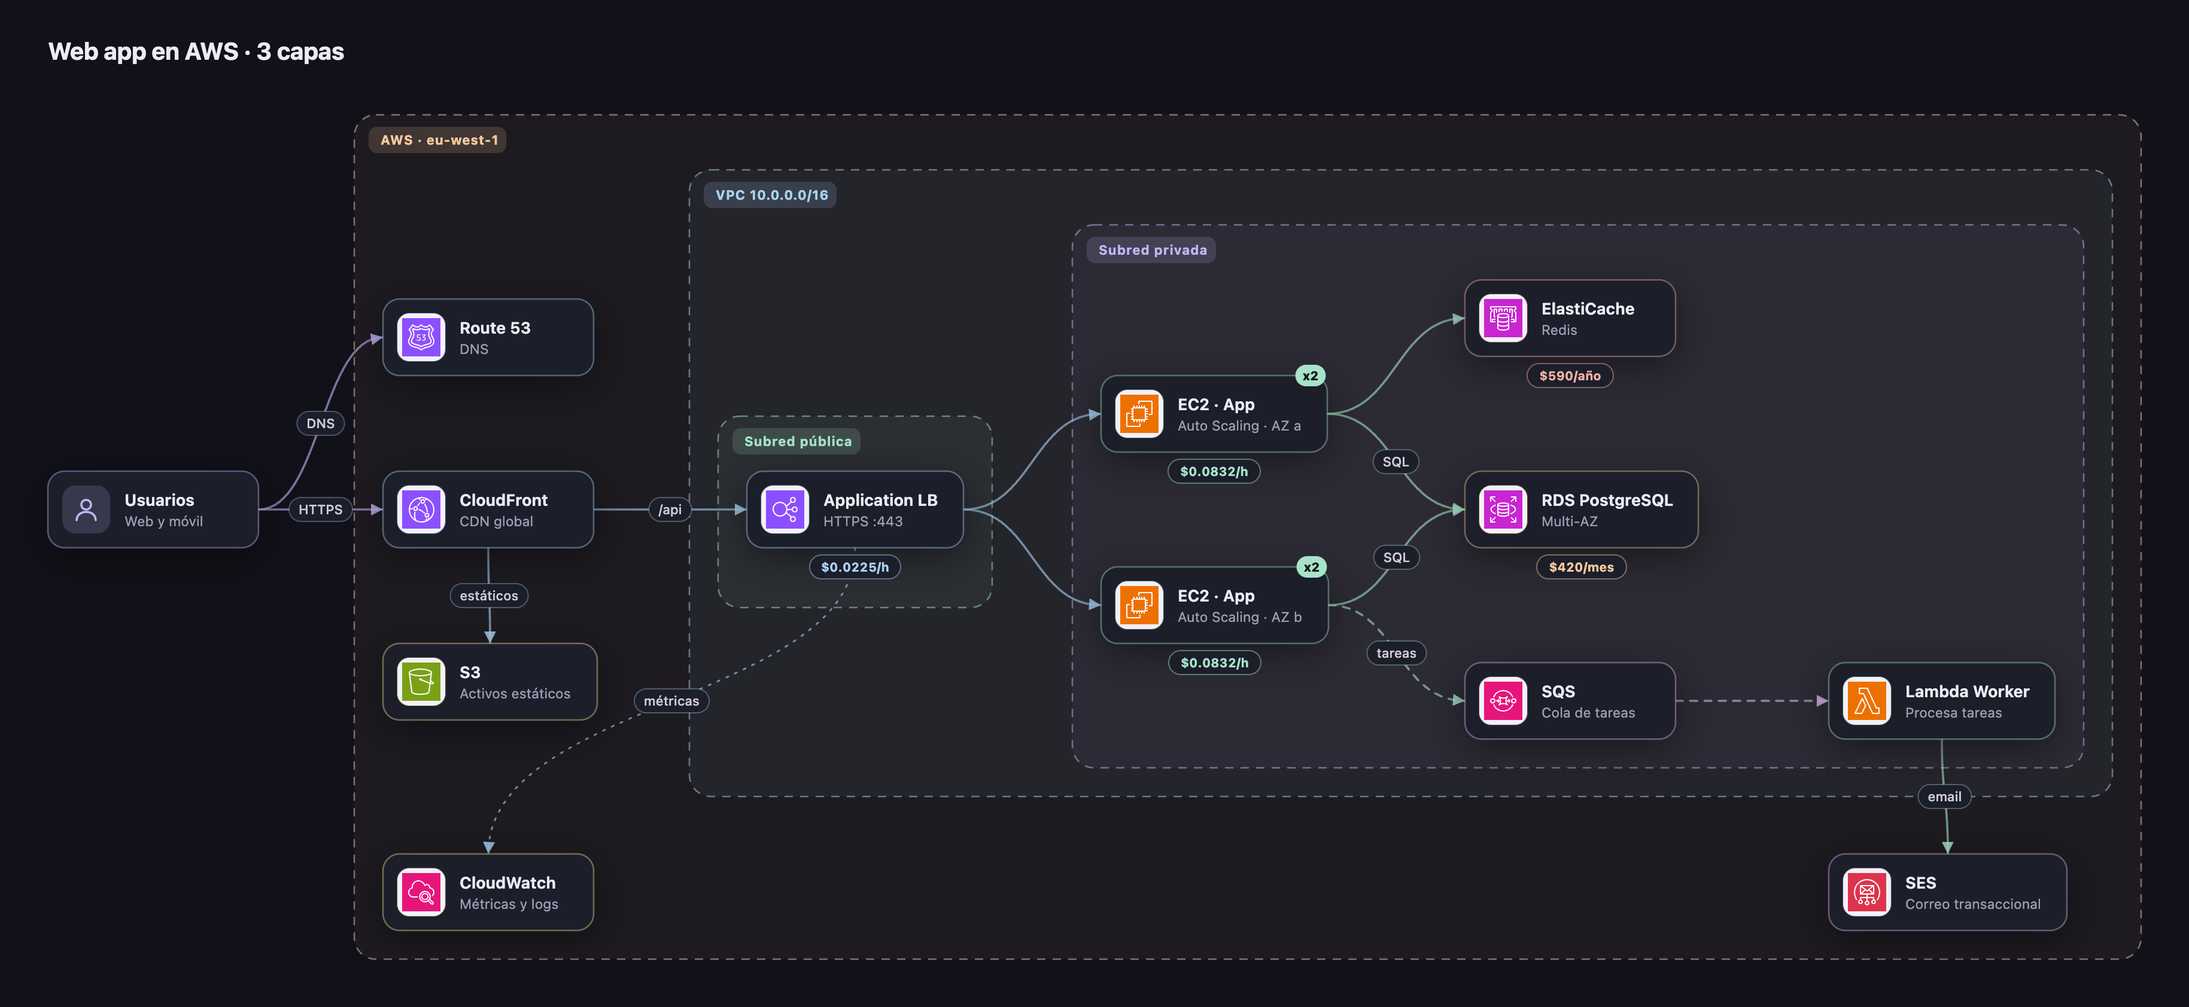
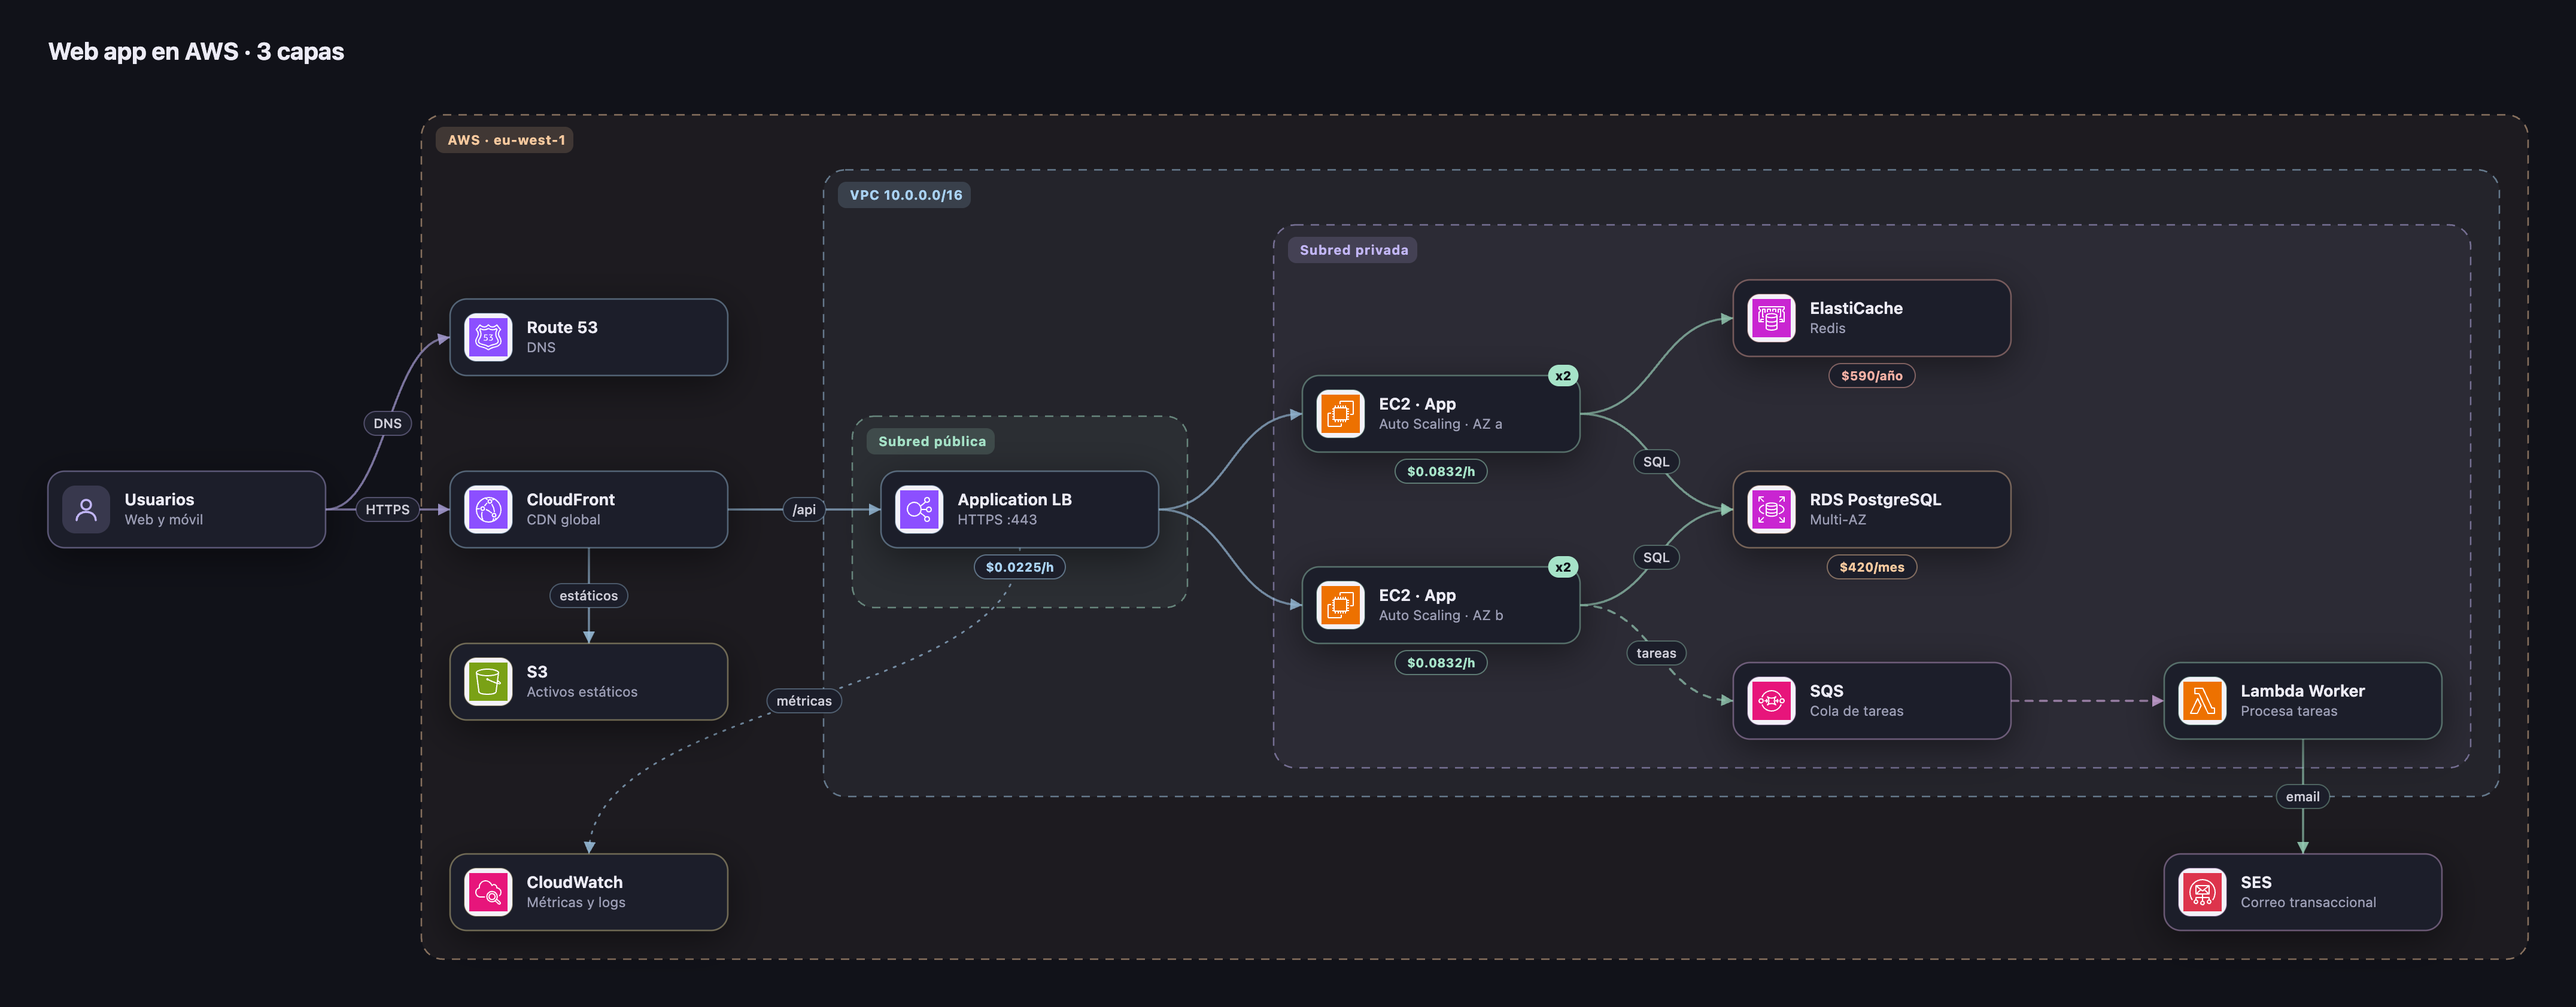
Refresh README images and widen template columns
Nodes are now 232 px wide instead of 176 px, so the template columns
had only ~48 px between boxes and edge labels got squeezed. Shift each
column of the AWS and GKE templates right by 56 px per column, which
restores the original spacing (the serverless template uses auto
layout and needs no change).

Regenerate docs/diagram-dark.png and docs/diagram-light.png with the
new same-size boxes.

diff --git a/examples.js b/examples.js
@@ -17,18 +17,18 @@ window.DIAGRAMON_EXAMPLES = [
       ],
       nodes: [
         { id: 'users',  label: 'Usuarios',       type: 'user',     sub: 'Web y móvil',          x: 0,    y: 200, desc: 'Clientes que acceden por navegador o app.' },
-        { id: 'dns',    label: 'Route 53',       type: 'dns', icon: 'aws/route53',      sub: 'DNS',                  group: 'aws', x: 280, y: 56,  desc: 'Resuelve el dominio hacia CloudFront.' },
-        { id: 'cdn',    label: 'CloudFront',     type: 'cdn', icon: 'aws/cloudfront',      sub: 'CDN global',           group: 'aws', x: 280, y: 200, desc: 'Sirve contenido estático y enruta /api al balanceador.' },
-        { id: 's3',     label: 'S3',             type: 'storage', icon: 'aws/s3',  sub: 'Activos estáticos',    group: 'aws', x: 280, y: 344, desc: 'HTML, JS, CSS e imágenes.' },
-        { id: 'cw',     label: 'CloudWatch',     type: 'monitor', icon: 'aws/cloudwatch',  sub: 'Métricas y logs',      group: 'aws', x: 280, y: 520, desc: 'Alarmas, paneles y registros.' },
-        { id: 'alb',    label: 'Application LB', type: 'lb', icon: 'aws/elb',       sub: 'HTTPS :443',           group: 'pub', x: 584, y: 200, desc: 'Reparte el tráfico entre zonas de disponibilidad.' },
-        { id: 'app1',   label: 'EC2 · App',      type: 'compute', icon: 'aws/ec2',  sub: 'Auto Scaling · AZ a',  group: 'priv', badge: 'x2', x: 880, y: 120, desc: 'Servidores de aplicación en la zona a.' },
-        { id: 'app2',   label: 'EC2 · App',      type: 'compute', icon: 'aws/ec2',  sub: 'Auto Scaling · AZ b',  group: 'priv', badge: 'x2', x: 880, y: 280, desc: 'Servidores de aplicación en la zona b.' },
-        { id: 'cache',  label: 'ElastiCache',    type: 'cache', icon: 'aws/elasticache',    sub: 'Redis',                group: 'priv', x: 1184, y: 40,  desc: 'Sesiones y lecturas frecuentes.' },
-        { id: 'rds',    label: 'RDS PostgreSQL', type: 'db', icon: 'aws/rds',       sub: 'Multi-AZ',             group: 'priv', x: 1184, y: 200, desc: 'Base de datos principal con réplica en espera.' },
-        { id: 'sqs',    label: 'SQS',            type: 'queue', icon: 'aws/sqs',    sub: 'Cola de tareas',       group: 'priv', x: 1184, y: 360, desc: 'Desacopla el trabajo pesado.' },
-        { id: 'worker', label: 'Lambda Worker',  type: 'function', icon: 'aws/lambda', sub: 'Procesa tareas',       group: 'priv', x: 1488, y: 360, desc: 'Consume la cola y envía correos.' },
-        { id: 'ses',    label: 'SES',            type: 'email', icon: 'aws/ses',    sub: 'Correo transaccional', group: 'aws', x: 1488, y: 520, desc: 'Confirmaciones y avisos por email.' }
+        { id: 'dns',    label: 'Route 53',       type: 'dns', icon: 'aws/route53',      sub: 'DNS',                  group: 'aws', x: 336, y: 56,  desc: 'Resuelve el dominio hacia CloudFront.' },
+        { id: 'cdn',    label: 'CloudFront',     type: 'cdn', icon: 'aws/cloudfront',      sub: 'CDN global',           group: 'aws', x: 336, y: 200, desc: 'Sirve contenido estático y enruta /api al balanceador.' },
+        { id: 's3',     label: 'S3',             type: 'storage', icon: 'aws/s3',  sub: 'Activos estáticos',    group: 'aws', x: 336, y: 344, desc: 'HTML, JS, CSS e imágenes.' },
+        { id: 'cw',     label: 'CloudWatch',     type: 'monitor', icon: 'aws/cloudwatch',  sub: 'Métricas y logs',      group: 'aws', x: 336, y: 520, desc: 'Alarmas, paneles y registros.' },
+        { id: 'alb',    label: 'Application LB', type: 'lb', icon: 'aws/elb',       sub: 'HTTPS :443',           group: 'pub', x: 696, y: 200, desc: 'Reparte el tráfico entre zonas de disponibilidad.' },
+        { id: 'app1',   label: 'EC2 · App',      type: 'compute', icon: 'aws/ec2',  sub: 'Auto Scaling · AZ a',  group: 'priv', badge: 'x2', x: 1048, y: 120, desc: 'Servidores de aplicación en la zona a.' },
+        { id: 'app2',   label: 'EC2 · App',      type: 'compute', icon: 'aws/ec2',  sub: 'Auto Scaling · AZ b',  group: 'priv', badge: 'x2', x: 1048, y: 280, desc: 'Servidores de aplicación en la zona b.' },
+        { id: 'cache',  label: 'ElastiCache',    type: 'cache', icon: 'aws/elasticache',    sub: 'Redis',                group: 'priv', x: 1408, y: 40,  desc: 'Sesiones y lecturas frecuentes.' },
+        { id: 'rds',    label: 'RDS PostgreSQL', type: 'db', icon: 'aws/rds',       sub: 'Multi-AZ',             group: 'priv', x: 1408, y: 200, desc: 'Base de datos principal con réplica en espera.' },
+        { id: 'sqs',    label: 'SQS',            type: 'queue', icon: 'aws/sqs',    sub: 'Cola de tareas',       group: 'priv', x: 1408, y: 360, desc: 'Desacopla el trabajo pesado.' },
+        { id: 'worker', label: 'Lambda Worker',  type: 'function', icon: 'aws/lambda', sub: 'Procesa tareas',       group: 'priv', x: 1768, y: 360, desc: 'Consume la cola y envía correos.' },
+        { id: 'ses',    label: 'SES',            type: 'email', icon: 'aws/ses',    sub: 'Correo transaccional', group: 'aws', x: 1768, y: 520, desc: 'Confirmaciones y avisos por email.' }
       ],
       edges: [
         { from: 'users', to: 'dns', label: 'DNS' },
@@ -96,17 +96,17 @@ window.DIAGRAMON_EXAMPLES = [
       ],
       nodes: [
         { id: 'client',   label: 'Clientes',        type: 'web',       sub: 'Navegador',        x: 0,    y: 200 },
-        { id: 'armor',    label: 'Cloud Armor',     type: 'firewall', icon: 'gcp/cloudarmor',  sub: 'WAF + LB global',  group: 'gcp', x: 280,  y: 200 },
-        { id: 'ingress',  label: 'Ingress NGINX',   type: 'gateway',   sub: 'TLS',              group: 'gke', x: 568,  y: 200 },
-        { id: 'front',    label: 'frontend',        type: 'container', sub: 'Next.js',          group: 'ns', badge: 'x3', x: 864, y: 56 },
-        { id: 'catalog',  label: 'catálogo',        type: 'container', sub: 'Go',               group: 'ns', badge: 'x2', x: 864, y: 200 },
-        { id: 'orders',   label: 'pedidos',         type: 'container', sub: 'Java',             group: 'ns', badge: 'x2', x: 864, y: 344 },
-        { id: 'payments', label: 'pagos',           type: 'container', sub: 'Python',           group: 'ns', x: 1160, y: 344 },
-        { id: 'sql',      label: 'Cloud SQL',       type: 'db', icon: 'gcp/cloudsql',        sub: 'PostgreSQL HA',    group: 'gcp', x: 1464, y: 40 },
-        { id: 'redis',    label: 'Memorystore',     type: 'cache', icon: 'gcp/memorystore',     sub: 'Redis',            group: 'gcp', x: 1464, y: 200 },
-        { id: 'pubsub',   label: 'Pub/Sub',         type: 'events', icon: 'gcp/pubsub',    sub: 'pedido.creado',    group: 'gcp', x: 1160, y: 520 },
-        { id: 'bq',       label: 'BigQuery',        type: 'analytics', icon: 'gcp/bigquery', sub: 'Ventas',           group: 'gcp', x: 1464, y: 520 },
-        { id: 'stripe',   label: 'Stripe',          type: 'external',  sub: 'Pasarela de pago', x: 1768, y: 344 }
+        { id: 'armor',    label: 'Cloud Armor',     type: 'firewall', icon: 'gcp/cloudarmor',  sub: 'WAF + LB global',  group: 'gcp', x: 336,  y: 200 },
+        { id: 'ingress',  label: 'Ingress NGINX',   type: 'gateway',   sub: 'TLS',              group: 'gke', x: 680,  y: 200 },
+        { id: 'front',    label: 'frontend',        type: 'container', sub: 'Next.js',          group: 'ns', badge: 'x3', x: 1032, y: 56 },
+        { id: 'catalog',  label: 'catálogo',        type: 'container', sub: 'Go',               group: 'ns', badge: 'x2', x: 1032, y: 200 },
+        { id: 'orders',   label: 'pedidos',         type: 'container', sub: 'Java',             group: 'ns', badge: 'x2', x: 1032, y: 344 },
+        { id: 'payments', label: 'pagos',           type: 'container', sub: 'Python',           group: 'ns', x: 1384, y: 344 },
+        { id: 'sql',      label: 'Cloud SQL',       type: 'db', icon: 'gcp/cloudsql',        sub: 'PostgreSQL HA',    group: 'gcp', x: 1744, y: 40 },
+        { id: 'redis',    label: 'Memorystore',     type: 'cache', icon: 'gcp/memorystore',     sub: 'Redis',            group: 'gcp', x: 1744, y: 200 },
+        { id: 'pubsub',   label: 'Pub/Sub',         type: 'events', icon: 'gcp/pubsub',    sub: 'pedido.creado',    group: 'gcp', x: 1384, y: 520 },
+        { id: 'bq',       label: 'BigQuery',        type: 'analytics', icon: 'gcp/bigquery', sub: 'Ventas',           group: 'gcp', x: 1744, y: 520 },
+        { id: 'stripe',   label: 'Stripe',          type: 'external',  sub: 'Pasarela de pago', x: 2104, y: 344 }
       ],
       edges: [
         { from: 'client', to: 'armor', label: 'HTTPS' },
